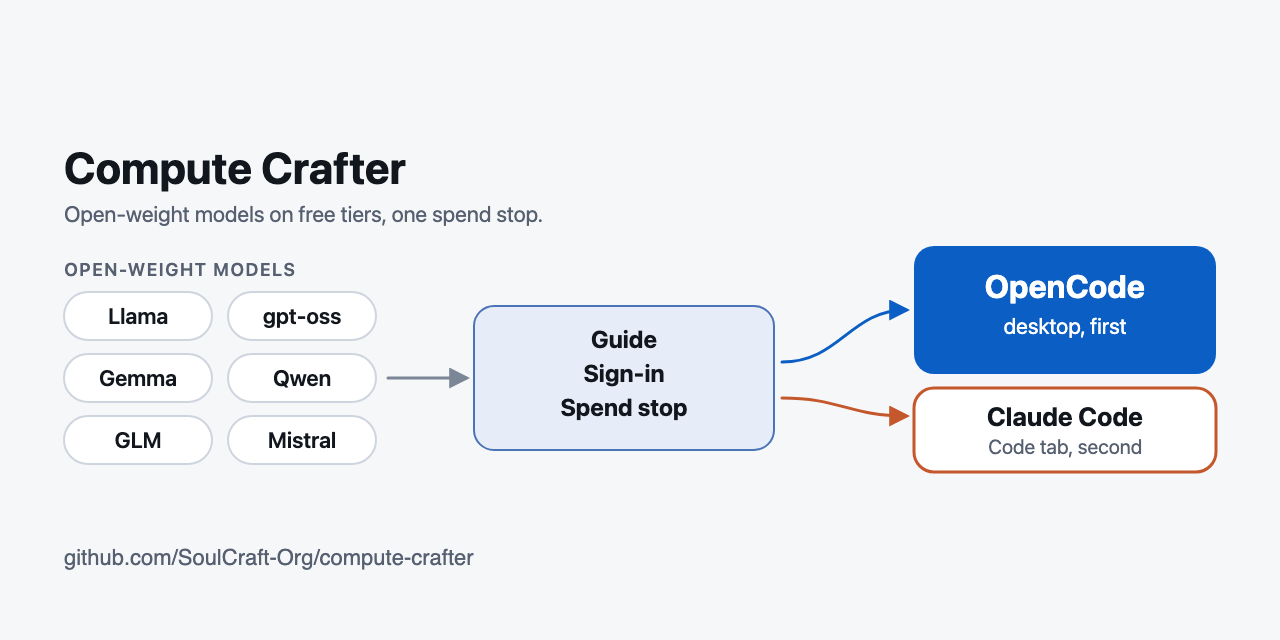
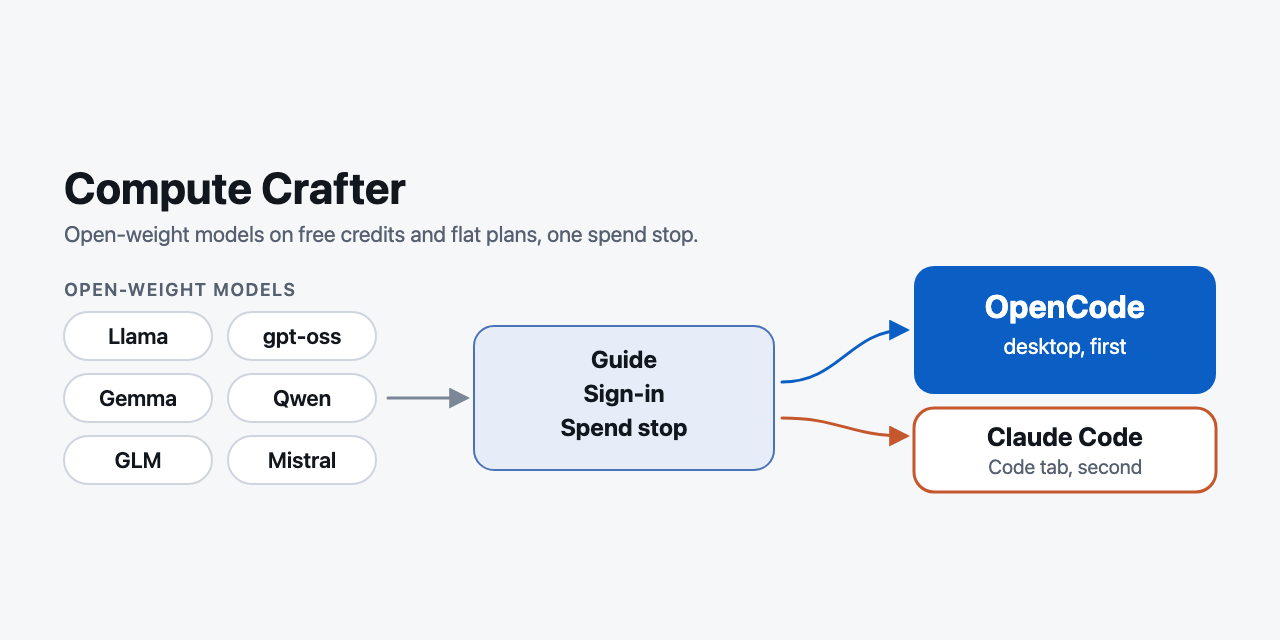
README and hero: the new Money rule wording (review)

diff --git a/README.md b/README.md
@@ -2,7 +2,7 @@
 
 ![Open-weight models flow through a guide, a sign-in and a spend stop into OpenCode desktop first and Claude Code second](assets/hero.svg)
 
-Wire open-source and open-weight compute into OpenCode desktop first and Claude Code second, on free tiers and included credits. Then keep your own list, sign-ins and score page.
+Wire open-source and open-weight compute into OpenCode desktop first and Claude Code second, on free credits and flat monthly subscriptions. Then keep your own list, sign-ins and score page.
 
 ## [📊 Open the live score page](https://soulcraft-org.github.io/compute-crafter/)
 
